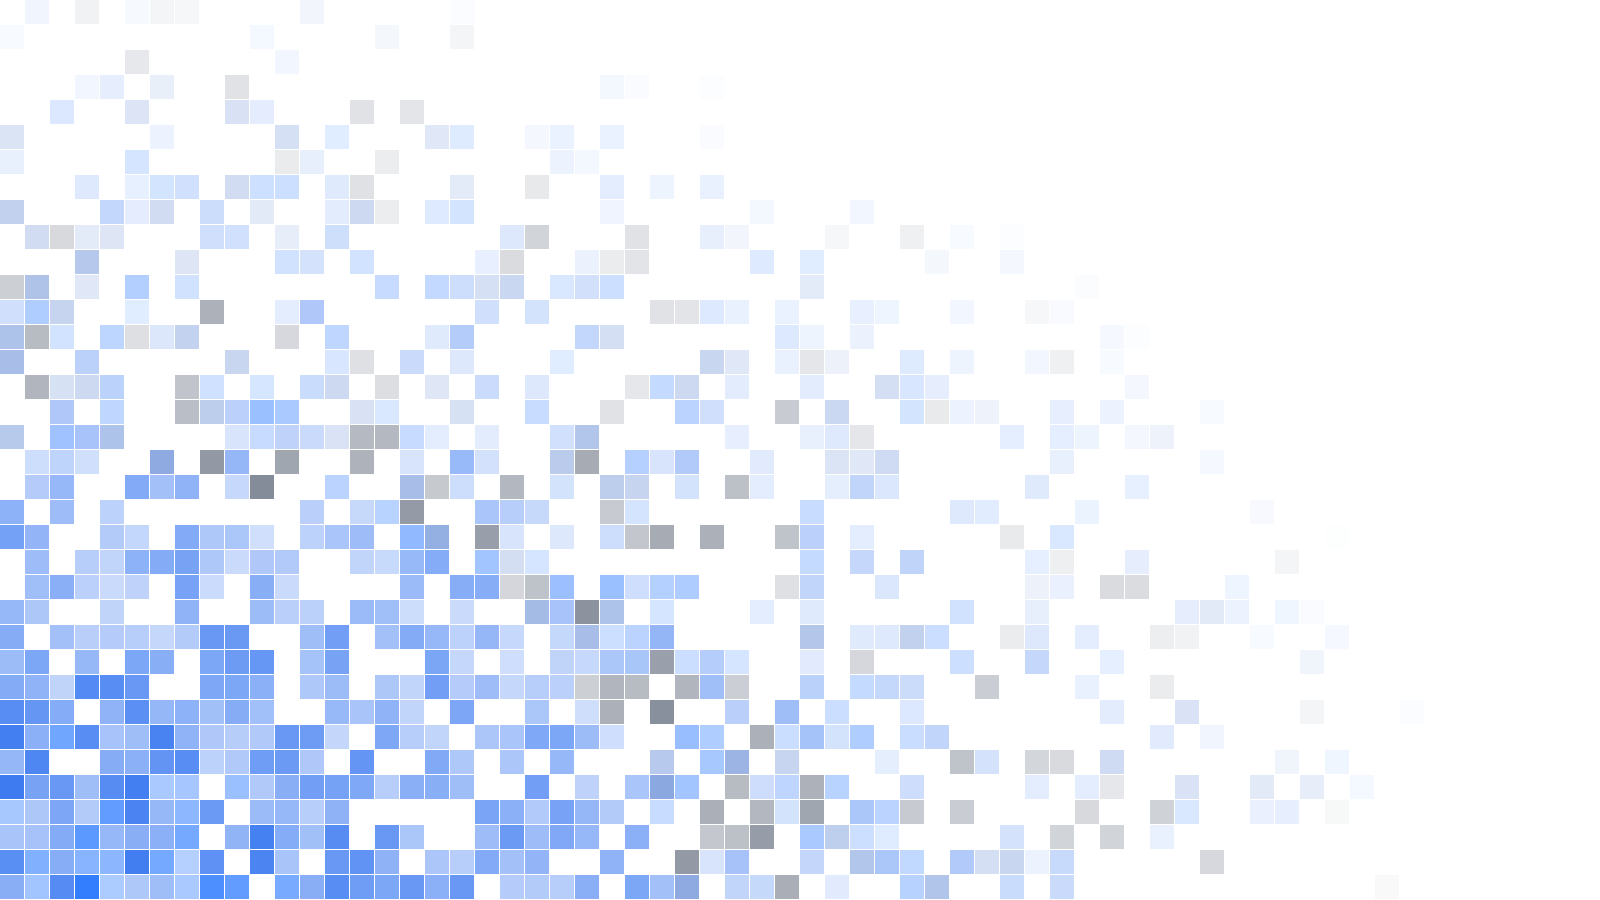
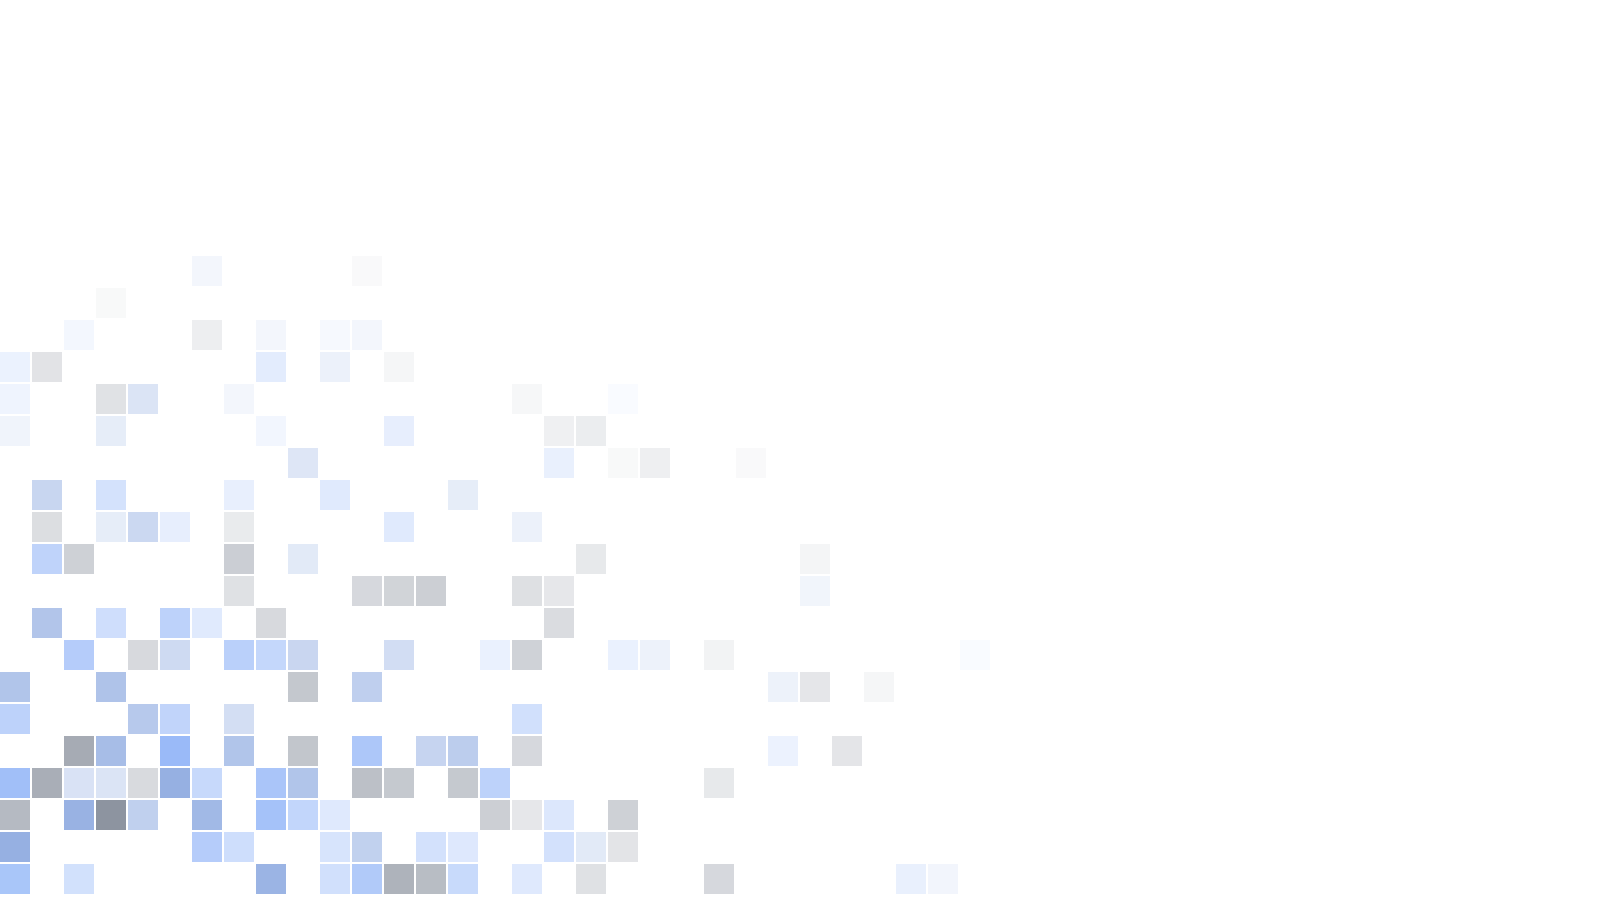
Calm the FAQ background down
It was competing with the questions. Three things were doing it: the mosaic
reached across the whole frame, its cells ran up to full opacity, and the
grid sat at 0.04 over the entire panel.

The mosaic now blooms from the bottom-left corner only and stops around
halfway — coverage drops 29.4% to 8.5%, and the right half, where the
content column sits, goes to 0.9%. Cells are larger and top out at two
thirds opacity, so it reads as texture rather than pattern. Grid down to
0.022 on a wider pitch; corner bloom down from 0.4 to 0.26.

With a quieter backdrop the panels no longer need to hide it: 0.8 to 0.7,
which still holds the open question's blue at 4.69:1 against the brightest
composite the new mosaic can produce.

diff --git a/public/css/edigitech.css b/public/css/edigitech.css
@@ -710,11 +710,13 @@
   background-color: #04070f;
   background-image:
     url("/images/brand/faq-mosaic.png"),
-    radial-gradient(900px 620px at 6% 92%, rgba(6, 85, 237, 0.4), rgba(6, 85, 237, 0) 66%);
+    radial-gradient(820px 560px at 4% 95%, rgba(6, 85, 237, 0.26), rgba(6, 85, 237, 0) 68%);
   background-position: left bottom, left bottom;
   background-size: cover, auto;
   background-repeat: no-repeat;
 }
+/* The grid is a texture, not a feature — at 0.04 across the whole panel it was
+   doing as much of the visual noise as the mosaic. */
 .ed-faq-dark::before {
   content: "";
   position: absolute;
@@ -722,8 +724,8 @@
   z-index: -1;
   pointer-events: none;
   background-image:
-    repeating-linear-gradient(to right, rgba(255, 255, 255, 0.04) 0 1px, transparent 1px 25px),
-    repeating-linear-gradient(to bottom, rgba(255, 255, 255, 0.04) 0 1px, transparent 1px 25px);
+    repeating-linear-gradient(to right, rgba(255, 255, 255, 0.022) 0 1px, transparent 1px 32px),
+    repeating-linear-gradient(to bottom, rgba(255, 255, 255, 0.022) 0 1px, transparent 1px 32px);
 }
 .ed-faq-dark .tp-section-title,
 .ed-faq-dark .tp-section-subtitle {
@@ -732,14 +734,13 @@
 .ed-faq-dark .tp-section-subtitle .borders {
   background: var(--ed-blue-light);
 }
-/* The panels are mostly opaque, not a 3% white veil. The mosaic's brightest
-   cells reach rgb(13,62,157), and the open question's blue sitting straight on
-   one of those measures 2.52:1. At 0.8 the worst backdrop behind any text is
-   rgb(6,18,43): blue 4.89:1, white 18.6:1, answer grey 11.65:1 — and the
-   mosaic still reads through the remaining fifth. */
+/* Panels stay largely opaque so the mosaic can't wash out the text. Against
+   the calmed mosaic the brightest composite is rgb(29,60,116); at 0.7 the
+   worst backdrop behind any text is rgb(12,23,45) — blue 4.69:1, white
+   17.9:1, answer grey 11.2:1. */
 .ed-faq-dark .tp-faq-wrap .accordion-item,
 .ed-faq-dark .tp-faq-wrap .accordion-item:not(:first-of-type) {
-  background: rgba(4, 7, 15, 0.8);
+  background: rgba(4, 7, 15, 0.7);
   border: 1px solid rgba(255, 255, 255, 0.12);
   border-radius: 12px;
 }
@@ -747,7 +748,7 @@
    instead of losing the border to the inactive rule's higher specificity. */
 .ed-faq-dark .tp-faq-wrap .accordion-item.tp-faq-active,
 .ed-faq-dark .tp-faq-wrap .accordion-item.tp-faq-active:not(:first-of-type) {
-  background: rgba(9, 17, 38, 0.86);
+  background: rgba(9, 17, 38, 0.78);
   border-color: rgba(61, 127, 242, 0.45);
 }
 .ed-faq-dark .tp-faq-wrap .tp-faq-btn {
